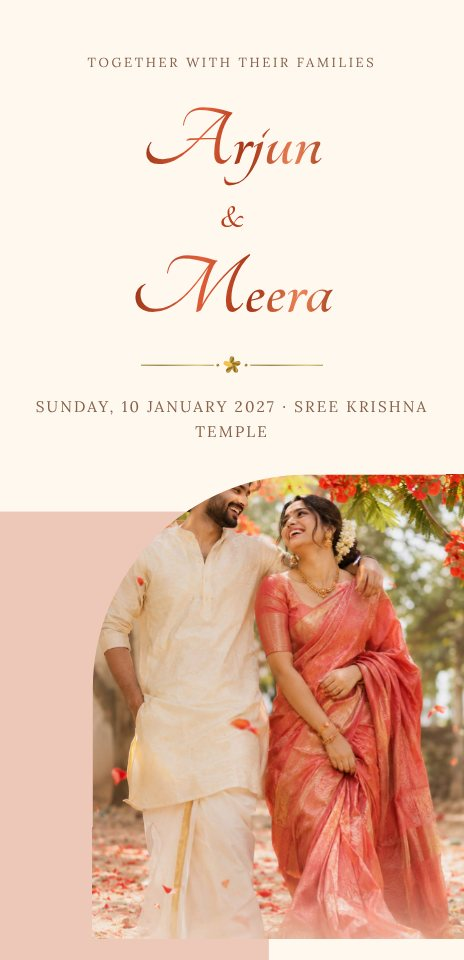
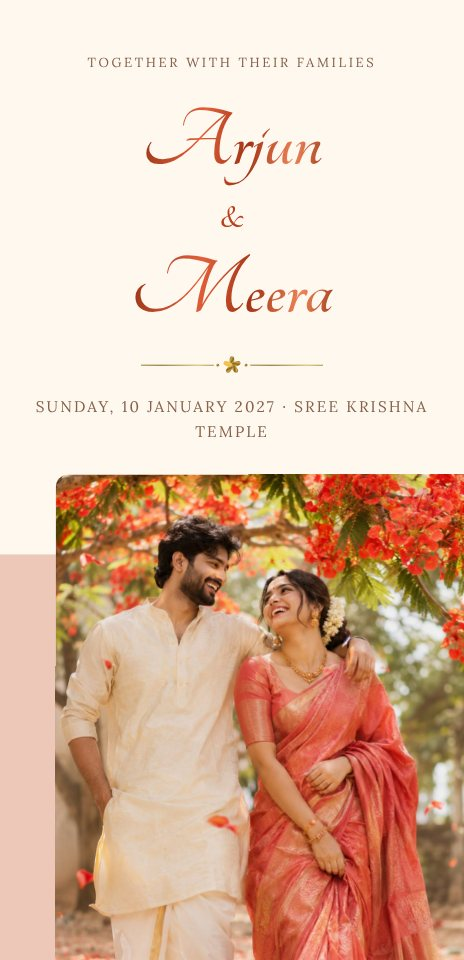
Faces never cropped on covers; classy Champagne opening; new Journal photo; Monochrome and Marigold on the homepage; no prices on design cards
Claude-Session: https://claude.ai/code/session_01HTLJ5qXdA6w9sojxHduBi6

diff --git a/assets/invite.css b/assets/invite.css
@@ -1201,3 +1201,17 @@
 /* Nilavu: fireflies */
 .wl-fx-fireflies i { width: 5px; height: 5px; border-radius: 50%; background: #FFE89A; box-shadow: 0 0 10px 3px rgba(255,220,120,.7); animation-duration: 5s !important; }
 .wl-fx-grain i { background: rgba(20,20,20,.35); }
+/* never cut a face: covers keep the photo's full width */
+.wl-cv-full { height: auto !important; min-height: 0 !important; aspect-ratio: 9 / 16; max-height: none; }
+.wl-cv-full .wl-slides img { object-position: 50% 30%; }
+.wl-cv-split .wl-slides { width: 88% !important; aspect-ratio: 9 / 12 !important; border-radius: 10px 0 0 10px; }
+.wl-cv-split .wl-slides img { object-position: 50% 20%; }
+.wl-cv-circle .wl-slides { width: 74% !important; aspect-ratio: 3 / 4 !important; border-radius: 50% / 50%; }
+.wl-cv-circle .wl-slides img { object-position: 50% 22%; }
+.wl-cv-circle .wl-cv-frame { width: calc(74% + 44px); aspect-ratio: 3 / 4 !important; margin-left: calc((74% + 44px) / -2); }
+/* fizz: soft gold bubbles rise and carry the card up (Champagne) */
+.wl-op-fizz .wl-op-art { position: absolute; inset: 0; width: auto; margin: 0; overflow: hidden; }
+.wl-op-fizz .wl-op-art > * { position: absolute !important; inset: 0 !important; width: 100% !important; height: 100% !important; animation: wlFizz 9s linear infinite; }
+@keyframes wlFizz { from { transform: translateY(0); } to { transform: translateY(-40%); } }
+.wl-op-fizz .wl-op-bg { box-shadow: inset 0 0 0 14px rgba(255,255,255,.5), inset 0 0 0 15px rgba(201,162,74,.5); }
+.wl-op-fizz.open .wl-op-bg, .wl-op-fizz.open .wl-op-art { transform: translateY(-104%); transition: transform 1.3s cubic-bezier(.7,0,.25,1); }

diff --git a/assets/invite.js b/assets/invite.js
@@ -642,7 +642,7 @@
   var OPENER = {
     classic: ['card', 'Wedding invitation', 'Open invitation'],
     blush: ['rise', 'With love', 'Open invitation'],
-    champagne: ['scratch', 'Scratch the gold to reveal the date', 'Reveal'],
+    champagne: ['fizz', 'Raise a glass with us', 'Open invitation'],
     kasavu: ['lamp', 'Tap to light the lamp', 'Light the lamp'],
     noor: ['mihrab', 'You are invited to our Nikah', 'Open the doors'],
     sindoor: ['mandala', '|| Shubh Vivah ||', 'Begin'],
@@ -706,6 +706,7 @@
       case 'mihrab': return '<div class="wl-hd-top">' + starBand('url(#wlFoil)') + '</div>';
       case 'jasmine': return '';
       case 'rise': return roseLine();
+      case 'fizz': return bokeh(5, 18, 400, 700);
     }
     return '';
   }

diff --git a/assets/site.css b/assets/site.css
@@ -915,3 +915,4 @@ body:has(.top:not(.tuck)) .dz-bar { top: 64px; }
 .grid-six .gd .gd-tags { display: none !important; } .grid-six .gd b { margin-top: 6px; }
 .gd-open { display: block; font-size: .78rem !important; line-height: 1.3; color: var(--plum-2) !important; font-style: italic; margin-top: 2px; }
 .gd-open::before { content: '✦ '; color: #C2456E; font-style: normal; }
+.gd-price b { color: var(--leaf, #3E7B4F); font-weight: 700; margin-right: 8px; } .gd-price b + i { margin-left: 0; padding-left: 8px; } .gd-price i:first-child { margin-left: 0; padding-left: 0; border-left: 0; }

diff --git a/lib/sections.php b/lib/sections.php
@@ -15,17 +15,16 @@ function sec_designs(int $limit = 0): void
 {
     extract(page_vars());
     // the home page leads with the photo-led and animated Premium designs; /designs shows everything in the same order
-    $pick = ['lumiere', 'vogue', 'bloom', 'journal', 'mughal', 'seal'];
+    $pick = ['mono', 'lumiere', 'marigold', 'vogue', 'journal', 'bloom'];
     $all = showcase_themes();
-    $themes = $limit > 0 ? array_slice(array_intersect_key($all, array_flip($pick)), 0, $limit, true) : $all;
+    $themes = $limit > 0 ? array_slice(array_replace(array_flip($pick), array_intersect_key($all, array_flip($pick))), 0, $limit, true) : $all;
     $f = preg_match('/^[a-z-]{3,20}$/', $_GET['f'] ?? '') ? $_GET['f'] : 'all';
     
 ?>
   <section class="sec gallery-band" id="designs" data-start-filter="<?= e($f) ?>">
     <div class="wrap">
       <?php if ($limit): ?><div class="sec-head">
-          <span class="tag" style="margin:0 0 12px">Premium</span>
-          <h2 class="foil">Photo-led &amp; animated designs</h2>
+          <h2 class="foil">Our favourite designs</h2>
           <p>Your photo fills the first screen, with petals, sparkles or lanterns moving over it. Tap any design to preview it.</p>
       </div><?php endif; ?>
       <?php if (!$limit): ?>
@@ -36,8 +35,8 @@ function sec_designs(int $limit = 0): void
       <div class="dz-chips" role="group" aria-label="Plan">
         <button type="button" data-plan="" aria-pressed="true">All designs</button>
         <button type="button" data-plan="tier-free" aria-pressed="false">Free</button>
-        <button type="button" data-plan="tier-standard" aria-pressed="false">₹<?= $ps ?></button>
-        <button type="button" data-plan="tier-premium" aria-pressed="false">₹<?= $pp ?> Premium</button>
+        <button type="button" data-plan="tier-standard" aria-pressed="false">Standard</button>
+        <button type="button" data-plan="tier-premium" aria-pressed="false">Premium</button>
         <button type="button" data-plan="animated" aria-pressed="false">✨ Animated</button>
         <button type="button" data-plan="photo-led" aria-pressed="false">Photo-led</button>
       </div>
@@ -49,7 +48,7 @@ function sec_designs(int $limit = 0): void
         <p class="dz-lbl">Style</p>
         <div class="dz-opts" data-group="style"><button type="button" data-v="photo-led" aria-pressed="false">Photo-led</button><button type="button" data-v="animated" aria-pressed="false">Animated</button></div>
         <p class="dz-lbl">Plan</p>
-        <div class="dz-opts" data-group="plan"><button type="button" data-v="tier-free" aria-pressed="false">Free</button><button type="button" data-v="tier-standard" aria-pressed="false">₹<?= $ps ?></button><button type="button" data-v="tier-premium" aria-pressed="false">₹<?= $pp ?></button></div>
+        <div class="dz-opts" data-group="plan"><button type="button" data-v="tier-free" aria-pressed="false">Free</button><button type="button" data-v="tier-standard" aria-pressed="false">Standard</button><button type="button" data-v="tier-premium" aria-pressed="false">Premium</button></div>
         <div class="dz-sheet-ft"><button type="button" class="btn alt" id="dz-reset">Clear all</button><button type="button" class="btn" id="dz-apply">Show designs</button></div>
       </div></div>
       <?php endif; ?>
@@ -70,7 +69,7 @@ function sec_designs(int $limit = 0): void
               <?php if ($fx): ?><em class="feat-tag">Animated</em><?php endif; ?>
             </span>
             <span class="gd-open"><?= e(THEME_OPEN[$id] ?? '') ?></span>
-            <small class="gd-price"><?= $t['tier'] === 'free' ? 'Free' : '₹' . ($t['tier'] === 'premium' ? $pp : $ps) ?><?= $fx ? '<i>✨ Animated</i>' : ($photoLed ? '<i>Photo-led</i>' : '') ?></small>
+            <?php if ($t['tier'] === 'free' || $fx || $photoLed): ?><small class="gd-price"><?= $t['tier'] === 'free' ? '<b>Free</b>' : '' ?><?= $fx ? '<i>✨ Animated</i>' : ($photoLed ? '<i>Photo-led</i>' : '') ?></small><?php endif; ?>
           </div>
         <?php endforeach; ?>
       </div>

diff --git a/lib/bootstrap.php b/lib/bootstrap.php
@@ -50,7 +50,7 @@ const PHOTO_LED_THEMES = ['lumiere', 'vogue', 'journal', 'bloom'];
 const THEME_FX = ['bloom' => 'petals', 'lumiere' => 'bokeh', 'journal' => 'confetti', 'vogue' => 'flash', 'mughal' => 'stars', 'sage' => 'leaves', 'seal' => 'blossom', 'ink' => 'hearts',
     'toile' => 'butterflies', 'velvet' => 'dust', 'gopuram' => 'marigolds', 'mayil' => 'feathers', 'qamar' => 'lanterns', 'chapel' => 'light', 'jaipur' => 'kites', 'mono' => 'grain'];
 /* What happens when a guest opens each design: shown on the design cards. */
-const THEME_OPEN = ['classic' => 'Doors slide open', 'blush' => 'The card lifts away', 'champagne' => 'Scratch the gold to see the date', 'kasavu' => 'Guests light the lamp',
+const THEME_OPEN = ['classic' => 'Doors slide open', 'blush' => 'The card lifts away', 'champagne' => 'Gold bubbles lift the card', 'kasavu' => 'Guests light the lamp',
     'noor' => 'Arched doors open', 'sindoor' => 'A spinning mandala', 'kesar' => 'Phulkari border opens', 'grace' => 'A wreath of light', 'marigold' => 'Garlands drop away',
     'nilavu' => 'Guests light the diyas', 'mullappoo' => 'Jasmine curtains part', 'thamara' => 'A lotus blooms open', 'lavender' => 'Blown away on a breeze', 'mehndi' => 'Henna draws itself',
     'gulmohar' => 'Falls like a petal', 'bloom' => 'Step through a flower arch', 'mughal' => 'Palace gates swing open', 'lumiere' => 'A 3-2-1 film countdown', 'journal' => 'An album cover opens',

diff --git a/index.php b/index.php
@@ -73,7 +73,7 @@ site_head('Premium Wedding Website Designs & Biodata Maker | ' . $brand,
           <small>Free plan · No card needed</small>
         </div>
         <div class="url-pill-wrap"><span class="url-pill"><svg viewBox="0 0 20 20" aria-hidden="true"><rect x="4" y="9" width="12" height="8" rx="2" fill="currentColor"/><path d="M7 9V6.5a3 3 0 016 0V9" fill="none" stroke="currentColor" stroke-width="1.8"/></svg><?php $host = preg_replace('#^https?://#', '', base_url()); ?><span><?= strlen($host) > 24 ? '…' : e($host) ?>/i/<b id="url-names">arjun-meera</b></span></span></div>
-        <?php $heroPick = ['champagne', 'kasavu', 'noor', 'sage', 'seal', 'lumiere']; ?>
+        <?php $heroPick = ['champagne', 'mono', 'marigold', 'kasavu', 'noor', 'lumiere']; ?>
         <div class="style-pills" role="group" aria-label="Try a design">
           <?php foreach ($heroPick as $id): ?>
             <button type="button" class="sw2" data-theme="<?= $id ?>" data-name="<?= e(THEMES[$id]['name']) ?>" aria-pressed="<?= $id === 'champagne' ? 'true' : 'false' ?>"><i style="background:<?= $swatch[$id] ?>"></i><?= e(THEMES[$id]['name']) ?></button>
